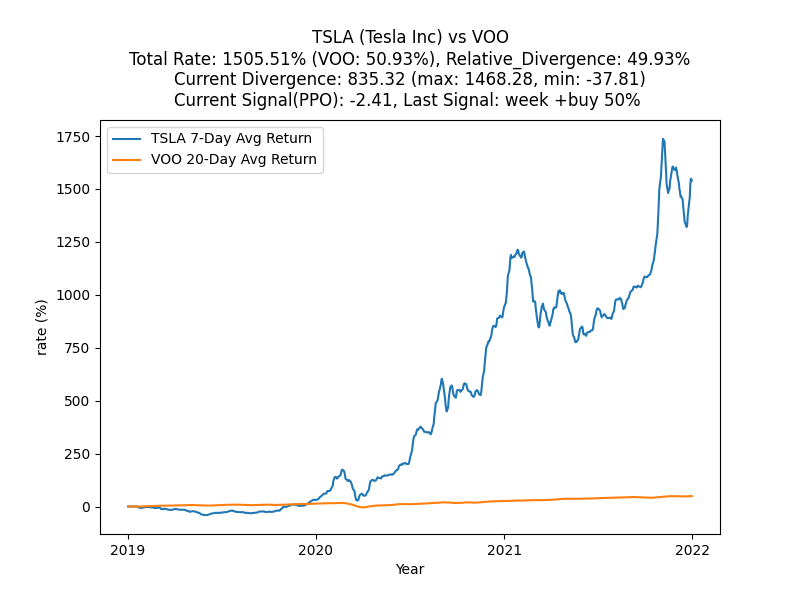
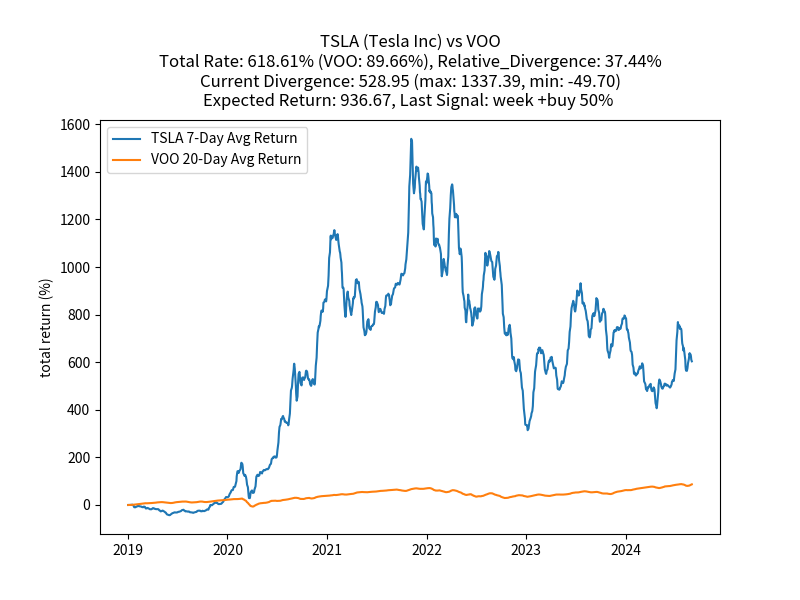
Auto-commit moved files

diff --git a/my-flask-app/Results_plot.py b/my-flask-app/Results_plot.py
@@ -167,9 +167,9 @@ async def plot_comparison_results(ticker, start_date, end_date):
 
 if __name__ == "__main__":
     print("Starting test for plotting results.")
-    ticker = "BTC-USD"
+    ticker = "TSLA"
     start_date = "2019-01-02"
-    end_date = "2024-08-30"
+    end_date = "2024-08-31"
     print(f"Plotting results for {ticker} from {start_date} to {end_date}")
 
     try:
